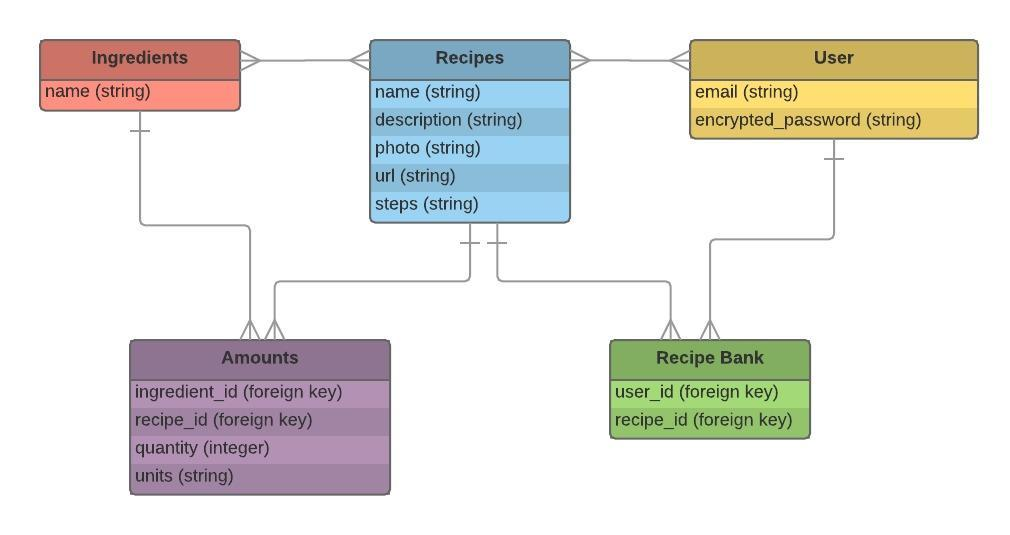
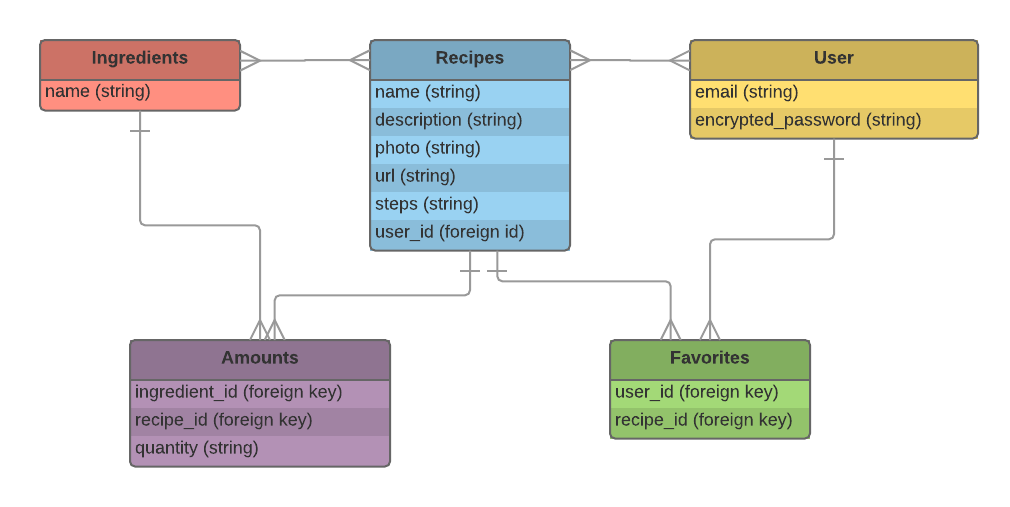
Updated ERD, README

diff --git a/README.md b/README.md
@@ -35,7 +35,11 @@ A working deployed app is available [here](http://gobble-gobblr.herokuapp.com).
 
 I began by thinking about how best to link two (2) tables I wanted to use: **recipes** and **ingredients**, which would have a _many-to-many_ relationship. (Recipes have many ingredients, ingredients can be used in many recipes.)
 
+ERD can be found [here](https://github.com/starrchen/gobblr/blob/master/planning/erd.jpeg).
+
 In the end, I decided the best way to join these two tables was through an **amount** table, where _quantity_ would be dependent on a recipe-ingredient relationship. I also incoroprated a **user** table and a **favorites** table, which was another join table for the many-to-many relationship between recipes and users. (Users can add many recipes to favorites; recipes can be added to favorites by many users.)
+
+Wireframes can be found [here](https://github.com/starrchen/gobblr/tree/master/planning/wireframes).
 
 From there, it was about deciding what kind of information was most useful to the user (ingredients, quantities, and directions on the recipe pages; recipes that used a given ingredient; all ingredients needed for saved recipes) and finagling the model associations to access that information from different areas in the app.
 
